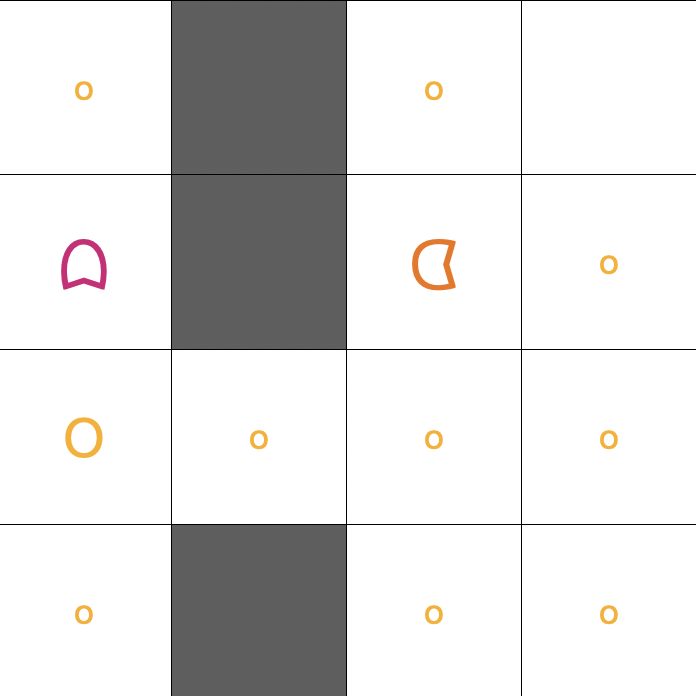
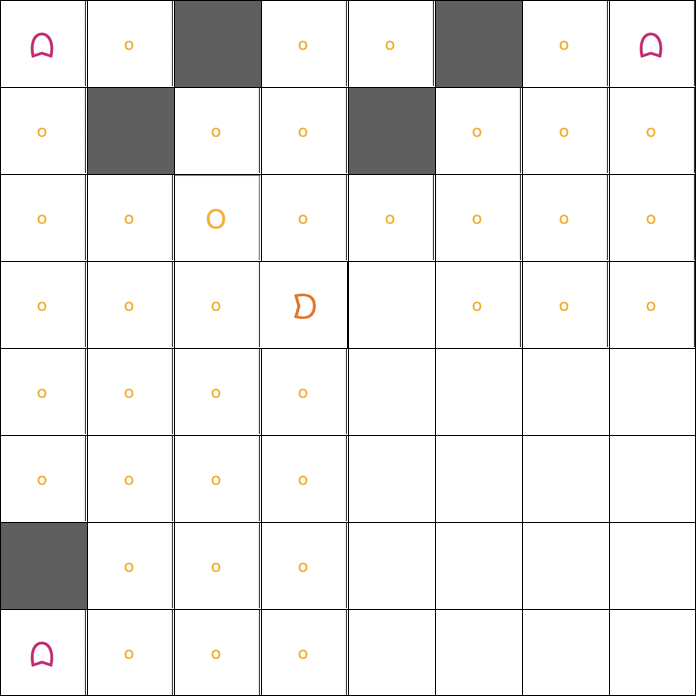
updates

diff --git a/pacman.hpp b/pacman.hpp
@@ -2,6 +2,9 @@
 #include <string>
 #include <iostream>
 #include <iterator>
+#include <cassert>
+
+constexpr uint32_t PANIC_RESET = 80;
 
 enum class cell_type {
     empty, wall, pellet, power_pellet,

diff --git a/README.md b/README.md
@@ -4,8 +4,8 @@ This project involves implementing a simplified version of the classic game [Pac
 
 The project requires the implementation of **two** classes, `game_state` and `pacman`, as described in this document.
 
-* A `game_state` is a *value* representing one snapshot of the maze (the grid plus a few counters). Two `game_state` objects can be compared, copied, serialized to/from XML, and modified cell by cell.
-* A `pacman` is the *container* that owns the whole game: an invariant maze size and a doubly-linked list of `game_state` snapshots representing every position the game has ever been in. The game logic (`move(...)`) and the iterators live on this class.
+* A `game_state` is a *value* representing one snapshot of the game (the grid plus a few counters). Two `game_state` objects can be compared, copied, serialized to/from XML, and modified cell by cell.
+* A `pacman` is the *container* that owns the whole game: an invariant game size and a doubly-linked list of `game_state` snapshots representing every position the game has ever been in. The game logic (`move(...)`) and the iterators live on this class.
 
 ### Table of contents
 
@@ -35,7 +35,7 @@ private:
 };
 ```
 
-A `game_state` object **does not** carry any history pointers: it is a plain value, and copies / assignments behave exactly as one expects of a value type (deep-copy the grid and the scalars; no aliasing, no surprises). The history is the responsibility of the `pacman` class.
+A `game_state` object **does not** carry any history pointers: it is a plain value, and copies / assignments behave exactly as one expects of a value type (deep-copy the grid and the scalars). The history is the responsibility of the `pacman` class.
 
 ### Grid and Cell Types
 
@@ -50,7 +50,7 @@ Each cell in the grid is one of the values of the `cell_type` enum:
 * `pacman`: the player character.
 * `ghost1`, `ghost2`, `ghost3`, `ghost4`: the four enemy ghosts.
 
-**Indexing convention.** A cell is identified by a pair `(i, j)`, where `i` is the **row index** (counting from 0 at the top) and `j` is the **column index** (counting from 0 at the left). The grid is stored as `m_grid[i][j]`. The top-left cell is `(0, 0)`, the bottom-right cell is `(m_size-1, m_size-1)`. The four ghost corners and Pac-Man's reset position are therefore
+**Indexing convention.** A cell is identified by a pair `(i, j)`, where `i` is the **row index** (counting from 0 at the top) and `j` is the **column index** (counting from 0 at the left). The grid is stored as `m_grid[i][j]`. The top-left cell is `(0, 0)`, the bottom-right cell is `(m_size-1, m_size-1)`. The four ghost corners and Pac-Man's reset position are:
 ```
 ghost1 (top-left)     = (0,      0     )
 ghost2 (top-right)    = (0,      size-1)
@@ -72,33 +72,68 @@ The parser must accept arbitrary whitespace (spaces, tabs, newlines) between tok
 
 **Example.**
 
-The following 4 x 4 grid (small circles are pellets, the large circle is a power pellet, gray squares are walls, the colored characters are a ghost on the left and Pac-Man on the right) is encoded as the XML below:
+The following 8 x 8 grid (small circles are pellets, the large circle is a power pellet, gray squares are walls, the magenta characters are ghosts, the orange one is Pac-Man) is encoded as the XML below. Notice in particular that the entire bottom-right 4 x 4 quadrant is empty, so it is serialised as a single self-closing leaf `<node type="empty"/>` at level 1 of the tree:
 
 <p align="center">
-  <img src="figures/example1.png" width="300" alt="example1">
+  <img src="figures/example1.png" width="350" alt="example1">
 </p>
 
 ```xml
-<game_state score="0" lives="3" size="4" pellets_left="10" panic_countdown="0">
+<game_state score="0" lives="3" size="8" pellets_left="38" panic_countdown="0">
     <node>
+        <node>
+            <node type="ghost1"/>
+            <node type="pellet"/>
+            <node type="pellet"/>
+            <node type="wall"/>
+        </node>
+        <node>
+            <node type="wall"/>
+            <node type="pellet"/>
+            <node type="pellet"/>
+            <node type="pellet"/>
+        </node>
         <node type="pellet"/>
-        <node type="wall"/>
-        <node type="ghost2"/>
-        <node type="wall"/>
+        <node>
+            <node type="power_pellet"/>
+            <node type="pellet"/>
+            <node type="pellet"/>
+            <node type="pacman"/>
+        </node>
+    </node>
+    <node>
+        <node>
+            <node type="pellet"/>
+            <node type="wall"/>
+            <node type="wall"/>
+            <node type="pellet"/>
+        </node>
+        <node>
+            <node type="pellet"/>
+            <node type="ghost2"/>
+            <node type="pellet"/>
+            <node type="pellet"/>
+        </node>
+        <node>
+            <node type="pellet"/>
+            <node type="pellet"/>
+            <node type="empty"/>
+            <node type="pellet"/>
+        </node>
+        <node type="pellet"/>
     </node>
     <node>
         <node type="pellet"/>
-        <node type="empty"/>
-        <node type="pacman"/>
+        <node type="pellet"/>
+        <node>
+            <node type="wall"/>
+            <node type="pellet"/>
+            <node type="ghost3"/>
+            <node type="pellet"/>
+        </node>
         <node type="pellet"/>
     </node>
-    <node>
-        <node type="power_pellet"/>
-        <node type="pellet"/>
-        <node type="pellet"/>
-        <node type="wall"/>
-    </node>
-    <node type="pellet"/>
+    <node type="empty"/>
 </game_state>
 ```
 
@@ -153,7 +188,7 @@ void set_pellets_left(uint32_t pellets_left);
 void set_panic_countdown(uint32_t panic_countdown);
 ```
 
-`set_size(s)` can be called only on a "fresh" state (`m_grid == nullptr`). It allocates an `s x s` grid of `empty` cells and accepts the same values for `s` as the constructor; otherwise it throws `pacman_exception`. The other setters accept any `uint32_t` value and never throw -- it is the caller's responsibility to keep the counters consistent with the grid (for instance, after editing the grid through `operator()`, the caller may need to call `set_pellets_left` to update the running count).
+`set_size(s)` can be called only on a "fresh" state (`m_grid == nullptr`). It allocates an `s x s` grid of `empty` cells and accepts the same values for `s` as the constructor; otherwise, it throws `pacman_exception`. The other setters accept any `uint32_t` value and never throw -- it is the caller's responsibility to keep the counters consistent with the grid (for instance, after editing the grid through `operator()`, the caller may need to call `set_pellets_left` to update the running count).
 
 ### Cell Access
 
@@ -213,15 +248,15 @@ void print_ascii_art(std::ostream& os) const;
   +--------+
   ```
 
-  (This is a sample state and not necessarily a "valid initial maze": ghost3 and ghost4 are not at their corner positions. The corners themselves are clear of walls and pellets, as required.)
+  (This is a sample state and not necessarily a "valid initial game": ghost3 and ghost4 are not at their corner positions. The corners themselves are clear of walls and pellets, as required.)
 
-  You are free to pick your own glyphs and your own header line.
+  You are free to pick your own glyphs.
 
 ---
 
 ## 2. The `pacman` class <a name="pacman"></a>
 
-The `pacman` class is the *container* that represents an entire game: a fixed maze size plus a doubly-linked list of `game_state` snapshots ordered chronologically (the head is the initial state, the tail is the latest state).
+The `pacman` class is the *container* that represents an entire game: a fixed game size plus a doubly-linked list of `game_state` snapshots ordered chronologically (the head is the initial state, the tail is the latest state).
 
 ```cpp
 class pacman {
@@ -240,7 +275,7 @@ private:
 };
 ```
 
-All snapshots in a single `pacman` share the same `m_size`. The `m_length` member is the number of snapshots currently in the list.
+All snapshots (`game_state`) in a single `pacman` share the same `m_size`. The `m_length` member is the number of snapshots currently in the list.
 
 We describe the game's rules first, then the class API.
 
@@ -249,15 +284,15 @@ We describe the game's rules first, then the class API.
 The method `pacman::move(cell_type who, int delta_i, int delta_j)` creates a new `game_state` by applying one move to the *last* state of the history and appends the resulting state at the tail. The arguments `delta_i` and `delta_j` are the row and column deltas of the move (recall that row index `0` is the top, so `delta_i = -1` means "move up").
 
 * **Direction.** Exactly one of `delta_i, delta_j` must be non-zero, and equal to `+1` or `-1`. The four legal pairs are `(-1, 0)` (up), `(+1, 0)` (down), `(0, -1)` (left), `(0, +1)` (right).
-* **Walls / out of bounds.** If a character attempts to move into a wall, or off the edge of the grid, its position stays unchanged in the new state. A new state is still appended to the history.
-* **Ghost starting / reset positions.** The four ghost corners are `ghost1 = (0, 0)`, `ghost2 = (0, size-1)`, `ghost3 = (size-1, 0)`, `ghost4 = (size-1, size-1)`. A *valid* maze must contain no wall, pellet, or power pellet on any of those four cells. **The centre cell `(size/2, size/2)` must always be empty**: it can never contain a wall, a pellet, or a power pellet. (Characters may occupy it -- for instance, Pac-Man respawns there on death -- but the maze layout never places a structural obstacle on it.) `pacman::push_back` enforces this on every state appended to the history.
+* **Walls / out of bounds.** If a character attempts to move into a wall, or off the edge of the grid, its position stays unchanged in the new state. **A new state is still appended to the history anyway.**
+* **Ghost starting / reset positions.** The four ghost corners are `ghost1 = (0, 0)`, `ghost2 = (0, size-1)`, `ghost3 = (size-1, 0)`, `ghost4 = (size-1, size-1)`. A *valid* game must contain no wall, pellet, or power pellet on any of those four cells. **The centre cell `(size/2, size/2)` must always be empty**: it can never contain a wall, a pellet, or a power pellet. (Characters may occupy it -- for instance, Pac-Man respawns there on death -- but the game layout never places a structural obstacle on it.) `pacman::push_back` enforces this on every state appended to the history.
 * **Pac-Man / ghost contact.** If a move would cause Pac-Man and a ghost to share a cell -- whether Pac-Man moved into the ghost or the ghost moved into Pac-Man -- the outcome depends on the mode:
-    * **Normal mode** (`panic_countdown == 0`). Pac-Man loses a life (`lives` decreases by 1) and the surviving characters reset to their starting positions: Pac-Man to `(size/2, size/2)`, each still-living ghost to its corner. Ghosts eaten in previous panic episodes stay eaten (their cells become `empty`). Pellets and `score` are not affected by a reset. This reset is the **only** transition in which both Pac-Man and one or more ghosts may change position simultaneously.
-    * **Panic mode** (`panic_countdown > 0`). The ghost is eaten and Pac-Man earns points (see scoring table). The eaten ghost disappears forever; its cell becomes `empty`. If Pac-Man moved into the ghost, Pac-Man takes the ghost's cell; if the ghost moved into Pac-Man, Pac-Man stays put and the ghost's old cell becomes `empty`.
-* **Two ghosts.** Two ghosts cannot occupy the same cell. If a ghost attempts to move into another ghost's cell, its position stays unchanged.
-* **Ghost into a pellet.** A ghost cannot occupy a cell containing a pellet or a power pellet, but only an empty cell. When a ghost (originally on an empty cell) tries to step into a neighbouring cell containing a (power) pellet, the two are *swapped*: the ghost ends up on the (now-empty) old pellet cell, and the (power) pellet ends up on the ghost's old empty cell. `pellets_left` is unchanged.
+    * **Normal mode** (`panic_countdown == 0`). Pac-Man loses a life (`lives` decreases by 1) and the surviving characters reset to their starting positions: Pac-Man to `(size/2, size/2)`, each still-living ghost to its corner. Ghosts eaten in previous panic episodes stay eaten (they never re-appear again). Pellets and `score` are not affected by a reset. This reset is the **only** transition in which both Pac-Man and one or more ghosts may change position simultaneously.
+    * **Panic mode** (`panic_countdown > 0`). The ghost is eaten and Pac-Man earns points (see scoring table). The eaten ghost disappears forever. If Pac-Man moved into the ghost, Pac-Man takes the ghost's cell; if the ghost moved into Pac-Man, Pac-Man stays put and the ghost's old cell becomes `empty`.
+* **Two ghosts.** Two ghosts cannot occupy the same cell. If a ghost attempts to move into another ghost's cell, its position stays unchanged (they are not swapped).
+* **Ghost into a pellet.** A cell can clearly contain only one value of `cell_type`, hence when a ghost tries to step into a neighbouring cell containing a (power) pellet, the two are *swapped*: the ghost ends up on the old (power) pellet cell, and the (power) pellet ends up on the ghost's old empty cell. `pellets_left` is unchanged.
 * **Pac-Man eating a pellet.** When Pac-Man moves into a cell containing a pellet or a power pellet, the pellet disappears, `pellets_left` decreases by 1, and `score` increases as per the table below. Eating a `power_pellet` also enters panic mode.
-* **Winning / losing.** The game is won when `pellets_left` reaches 0; lost when `lives` reaches 0. Neither condition is enforced inside `move()`; it is up to the caller to stop the game.
+* **Winning / losing.** The game is won when `pellets_left` reaches 0; lost when `lives` reaches 0. It is up to the caller to stop the game by checking the return value of the `win()` method. (The caller might do further moves even if there are no pellets left.)
 * **Invalid `move(...)` arguments.** `move()` throws `pacman_exception` if the history is empty, if `who` is not one of `pacman, ghost1, ghost2, ghost3, ghost4`, if `(delta_i, delta_j)` is not a unit cardinal step, or if `who` is not present on the grid of the last state.
 
 ### Scoring System
@@ -271,24 +306,22 @@ The method `pacman::move(cell_type who, int delta_i, int delta_j)` creates a new
 | Eating **3rd Ghost** (in temporal order) | 800 |
 | Eating **4th Ghost** (in temporal order) | 1600 |
 
-The "n-th ghost" counter is global across the whole game (not reset between panic episodes); it can be derived from the grid as `4 - (number of ghosts on the grid before the eat)`.
+The "n-th ghost" counter is global across the whole game (not reset between panic episodes); it can be derived from the grid as `4 - (number of ghosts on the grid before the eat) + 1`.
 
 ### Panic Mode
 
-When Pac-Man eats a `power_pellet`, `panic_countdown` is set to **10**. While `panic_countdown > 0`, ghosts can be eaten; once it reaches 0, panic mode ends.
+When Pac-Man eats a `power_pellet`, `panic_countdown` is set to `PANIC_RESET` (a global constant in `pacman.hpp`). While `panic_countdown > 0`, ghosts can be eaten; once it reaches 0, panic mode ends.
 
-For an unambiguous ordering, every time `move()` produces a new state the `panic_countdown` is updated as follows:
+Every time `move()` produces a new state the `panic_countdown` is updated as follows:
 
 1. start from the previous state's `panic_countdown`,
 2. if it is greater than 0, decrement it by 1,
-3. then process the move; if Pac-Man eats a `power_pellet` during the move, set `panic_countdown` to 10 (overriding step 2).
-
-The "ghost eaten vs life lost" decision uses the *post-step-2* value of `panic_countdown` (i.e. after the decrement, before any power-pellet override). Eating a power pellet thus grants 10 *future* moves of panic protection.
+3. then process the move; if Pac-Man eats a `power_pellet` during the move, set `panic_countdown` to `PANIC_RESET` (overriding step 2).
 
 ### Constructors and Destructor
 
 * `pacman()`: default constructor. Empty container: `m_size = m_length = 0`, `m_head = m_tail = nullptr`.
-* `pacman(uint32_t size)`: empty container with the maze size pre-set. `size` must be 0 or a power of 2 greater than or equal to 4 (otherwise: `pacman_exception`). No snapshot is created.
+* `pacman(uint32_t size)`: empty container with the game size pre-set. `size` must be 0 or a power of 2 greater than or equal to 4 (otherwise: `pacman_exception`). No snapshot is created.
 * `pacman(pacman const& rhs)`: copy constructor. **Deep-copies the whole history**: the new game has the same size, the same length, and an independent linked list whose states are pairwise equal to those of `rhs`.
 * `pacman(pacman&& rhs)`: move constructor. Steals the size and the linked list from `rhs`, leaving `rhs` in the default-constructed state.
 * `~pacman()`: destructor. De-allocates every node in the list.
@@ -355,7 +388,7 @@ std::istream& operator>>(std::istream& is, pacman&       g);
 void print_ascii_art(std::ostream& os) const;
 ```
 
-A `pacman` game is serialized as XML inside a `<pacman>` root that carries the maze size, with one `<game_state>` child per snapshot in chronological order (head first, tail last):
+A `pacman` game is serialized as XML inside a `<pacman>` root that carries the game size, with one `<game_state>` child per snapshot in chronological order (head first, tail last):
 
 ```xml
 <pacman size="4">
@@ -377,7 +410,7 @@ A `pacman` game is serialized as XML inside a `<pacman>` root that carries the m
 
 ## 3. How to Test Your Code? <a name="testing"></a>
 
-Writing code is only half the job; the other half is designing thorough tests. During evaluation we will stress your code with valid and invalid inputs and exercise every operator. We recommend creating a file `tools/test.cpp` containing your own `main` that exercises both classes in isolation (constructor edge cases, every setter with valid and invalid inputs, every operator, the XML round-trip, ...). **Do not submit `test.cpp`**: only `pacman.cpp` is submitted.
+Writing code is only half the job; the other half is designing thorough tests. During evaluation we will stress your code with valid and invalid inputs and exercise every operator. We recommend creating a file `tools/test.cpp` containing your own `main` that exercises both classes in isolation (constructor edge cases, every setter with valid and invalid inputs, every operator, the XML read/write and read/write again...). **Do not submit `test.cpp`**: only `pacman.cpp` is submitted.
 
 We strongly recommend compiling your tests with the sanitizer flags discussed in class:
 
@@ -387,7 +420,7 @@ g++ -std=c++17 -Wall -Wextra -O0 -g -fsanitize=address ...
 
 Any memory error we find during evaluation will result in penalties.
 
-Specific scenarios worth testing explicitly:
+Specific scenarios worth testing explicitly (but not the only ones!):
 
 * **Boundary conditions.** Hitting a wall, walking off the edge of the grid, eating the last pellet, losing the last life, eating four ghosts in one panic episode, eating a power pellet while still in panic mode.
 * **XML round-trip.** For both `game_state` and `pacman`: serialize, parse back, compare with `operator==`. Cover non-trivial quad-tree decompositions, and (for `pacman`) histories with several states.
@@ -402,9 +435,10 @@ Your task is to implement the file `pacman.cpp`.
 
 Some important notes:
 
-1. `pacman.cpp` must contain **only** `#include "pacman.hpp"`. No other `#include` directives, no macros, no compiler-specific pragmas. The standard-library headers needed by both classes are already included by `pacman.hpp` (`<cstdint>`, `<string>`, `<iostream>`, `<iterator>`).
+1. `pacman.cpp` must contain **only** `#include "pacman.hpp"`. No other `#include` directives, no macros, no compiler-specific pragmas. The standard-library headers needed by both classes are already included by `pacman.hpp`.
 2. `pacman.cpp` **must not** define the `main` function: we will write it to test your code. If you define `main`, the project will not compile during evaluation.
 3. Do not define any new namespace.
+4. Do not print anything on `std::cout` and `std::cerr`. We will check this and invalidate the project if you do.
 
 ### Format and Submission Link
 
@@ -441,7 +475,15 @@ The subsequent appeals will be in September and January. The submission link (Go
 
 ## 5. Project Evaluation <a name="evaluation"></a>
 
-We will compile your code with the C++ 17 standard (`-std=c++17`). Any method that causes unexpected termination (e.g. `segmentation fault`) is awarded 0 points. An unimplemented method is awarded 0 points. The iterators are particularly important: if they are broken we cannot test the container's contents, so the rest of the `pacman` class effectively gets 0 points as well.
+We will compile your code with the C++ 17 standard (`-std=c++17`). Any method that causes unexpected termination (e.g. `segmentation fault`) is awarded 0 points. An unimplemented method is awarded 0 points. We will apply the following **incremental** grading scheme:
+
+| implemented methods | grades |
+| :--- | :--- |
+| stream operators | 0-20 |
+| + copy/move semantics, iterators | 21-24 |
+| + function `move(...)` | 25-30L |
+
+Of course, implementing the stream operators will require implementing also constructor, destructor, getters, setters, operator(), etc (so all methods are implicitly included in the above table). 
 
 ### Timeout
 
@@ -449,12 +491,12 @@ Your code must be reasonably fast. We will set a timeout of a few minutes (in re
 
 ### Plagiarism
 
-It is **strictly forbidden to use AI to generate any piece of code of this project.** Your code will be compared using a plagiarism detector and an AI detector, both of which can see through superficial renamings or loop-form changes. In the event of detected plagiarism or AI usage, all involved students will:
+It is **strictly forbidden to use AI to generate any piece of code of this project.** Your code will be compared using a plagiarism detector and an AI detector, both of which can see through superficial renamings, loop-form changes, or similar tricks. In the event of detected plagiarism or AI usage, all involved students will:
 
 * Have to retake the exam next year. The grade for Module 1, if already passed, will be annulled.
 * Be reported to the university's disciplinary committee, which decides how to proceed (this can lead to expulsion).
 
-If one of the involved students has already passed the exam (and therefore provided their code to a student who has yet to take the exam), we will delete the exam record; the student will have to retake the exam next year, and the case will be reported. If a code sample we receive merely *resembles* AI output or another student's code closely enough to be suspicious, you will be invited to an **additional detailed oral exam** on the project.
+If one of the involved students has already passed the exam (and therefore provided their code to a student who has yet to take the exam), we will delete the exam record; the student will have to retake the exam next year, and the case will be reported. If a code sample we receive merely *resembles* AI output or another student's code closely enough to be suspicious, you will be invited to an **additional detailed oral exam** on the project. 
 
 Two simple rules:
 
@@ -465,4 +507,4 @@ Two simple rules:
 
 ## 6. GitHub Issues <a name="issues"></a>
 
-If you find inaccuracies or want clarification on parts of this document or `pacman.hpp`, open a GitHub issue (the "Issues" tab at the top of the repository) citing the relevant line(s). To cite a specific line in `README.md`: open the file, click the `<>` "display the source blob" button, select the relevant line numbers, click the three dots → "Copy permalink"; paste the link in the issue. The same procedure applies to `pacman.hpp`.
+If you find inaccuracies or want clarification on parts of this document or `pacman.hpp`, open a GitHub issue (the "Issues" tab at the top of the repository) citing the relevant line(s). To cite a specific line in `README.md`: open the file by clicking on its name at the top of this page, click `Code` at the top, select the relevant line number, click the three dots → "Copy permalink"; paste the link in the issue. The same procedure applies to `pacman.hpp`.
